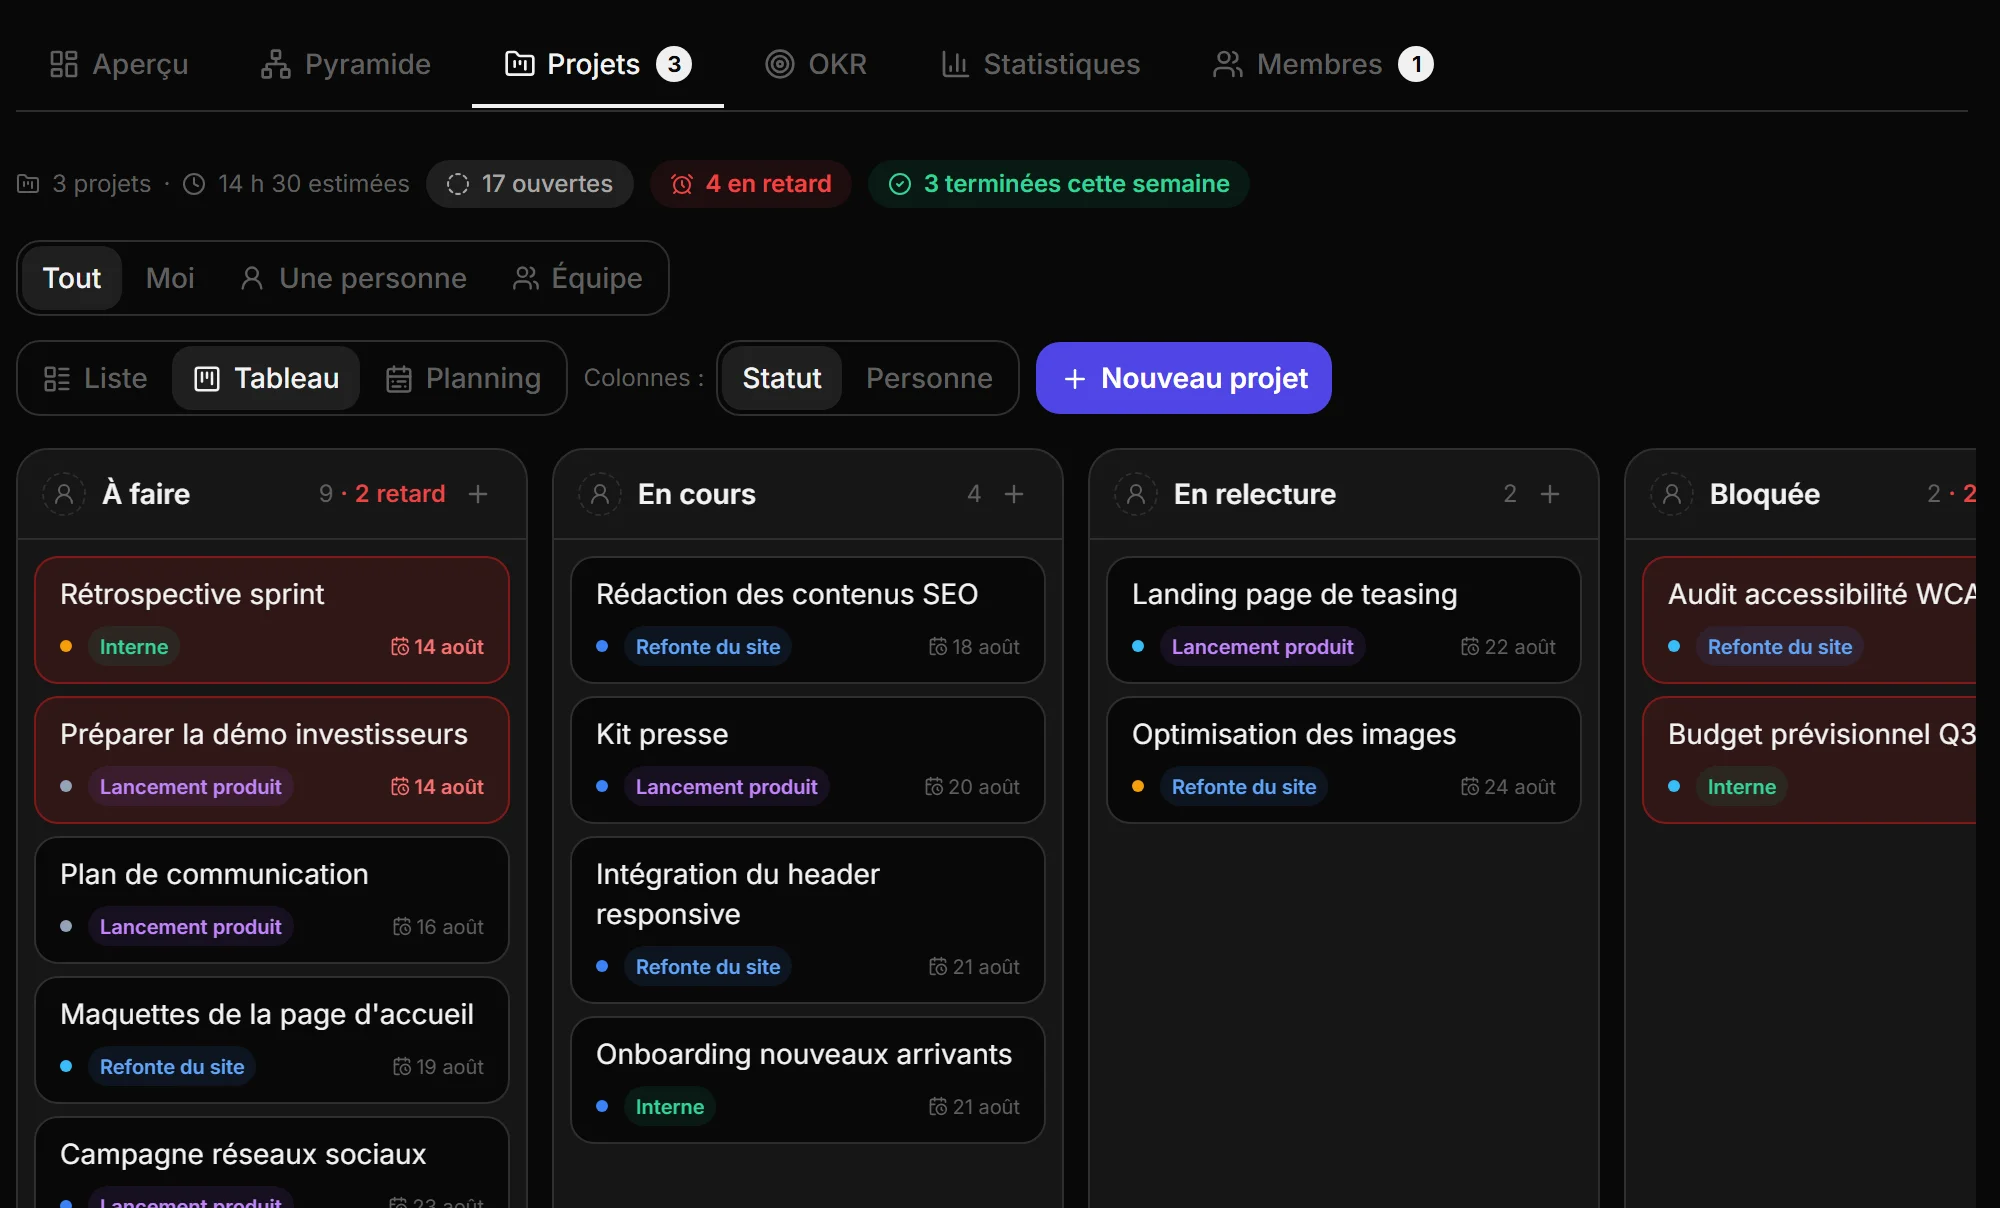
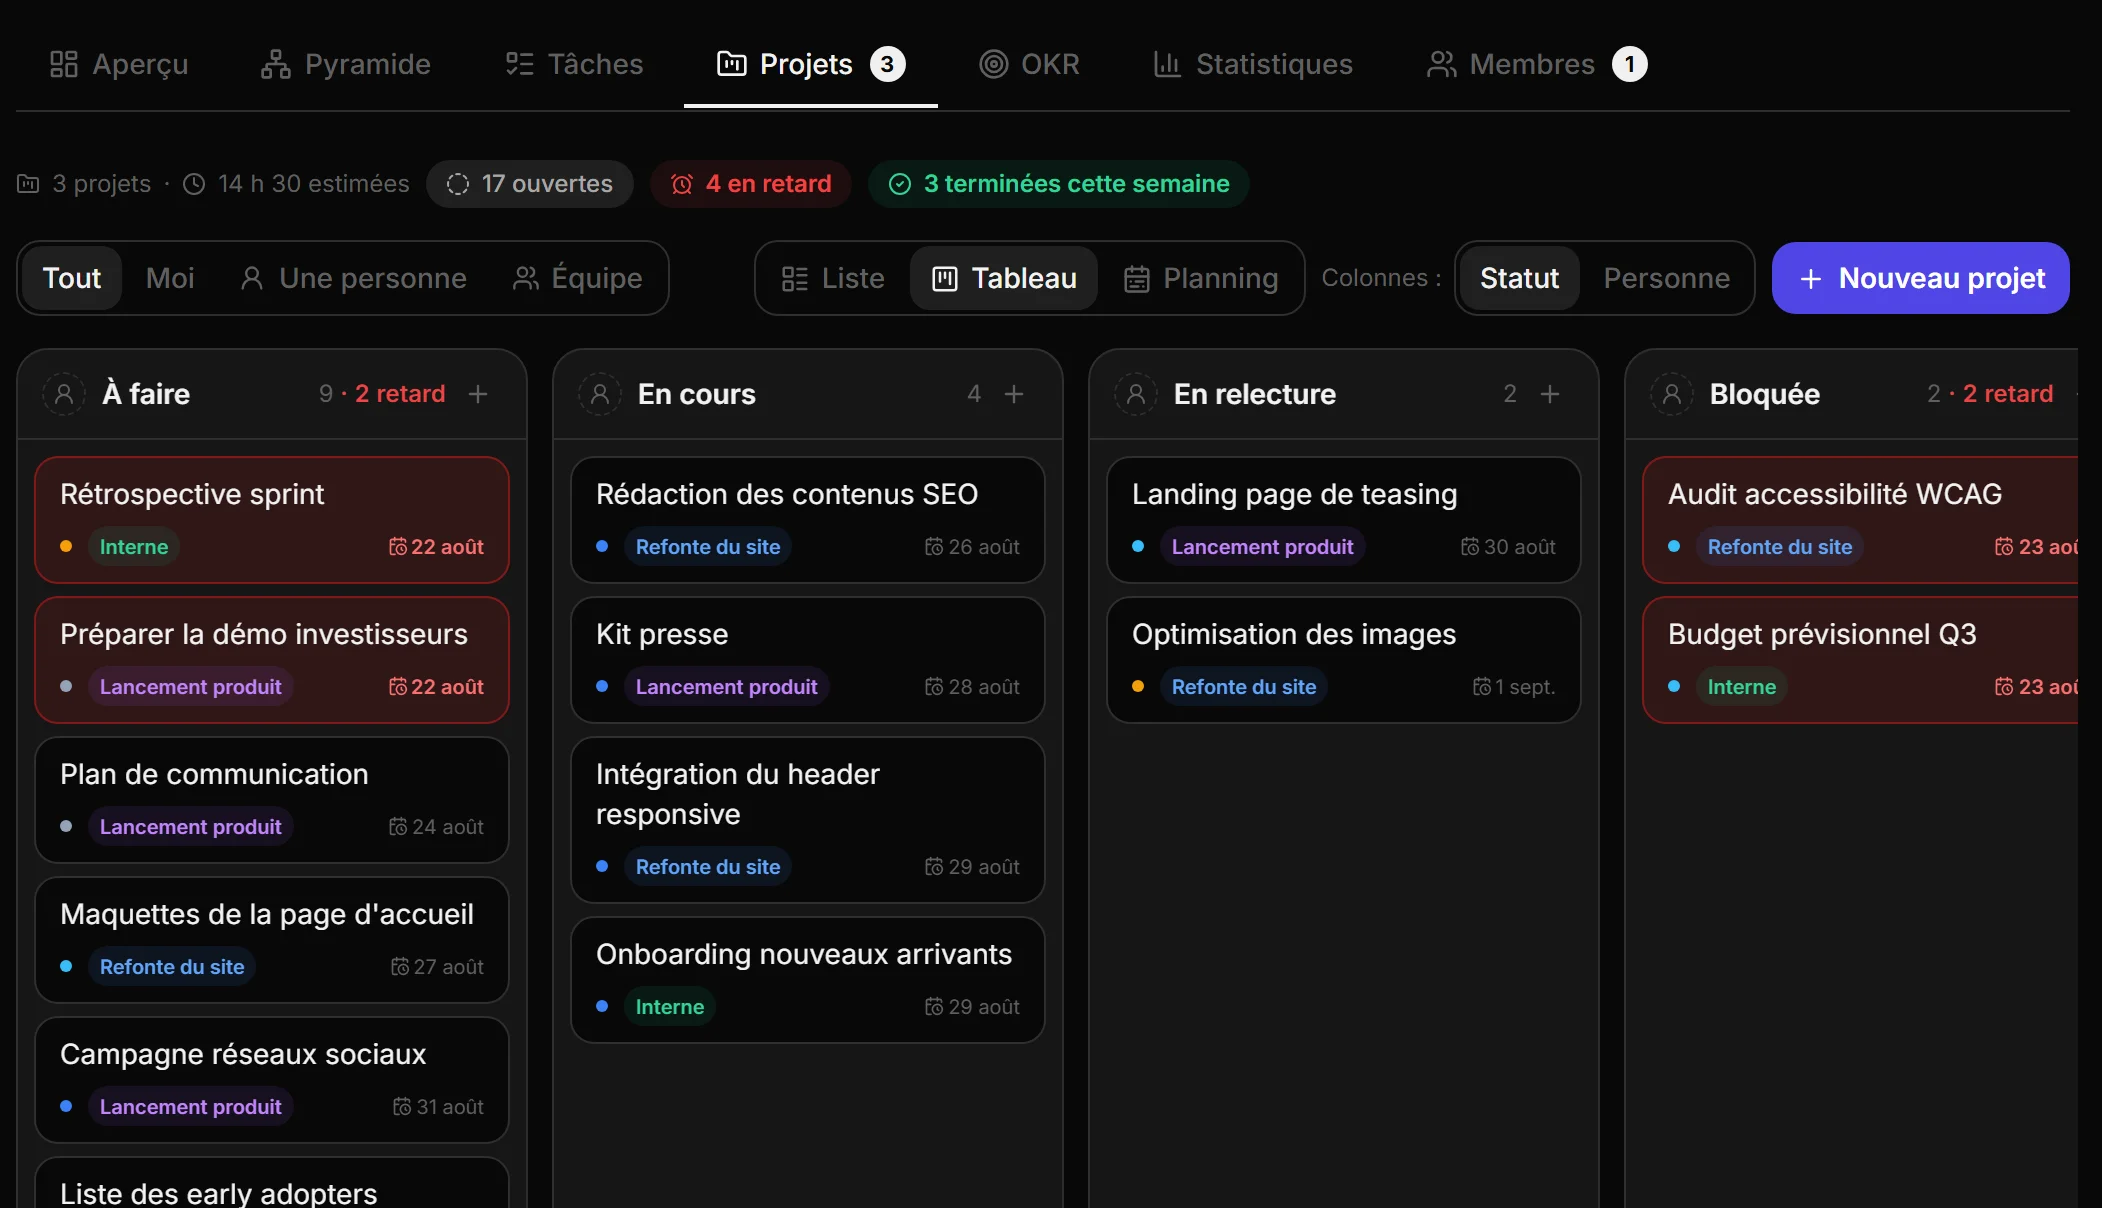
fix(entreprise): recapture les 8 screenshots de la landing + nouveau taches.webp
Les captures dataient d'avant le redesign du modal de tâche, les pastilles
de statut, le DatePicker refait et OrgPlanChip — elles montraient une
interface qui n'existe plus. Recapturées en démo/thème noir, à jour :
statuts 5 valeurs, chemin critique dans la vue Planning, panneau membres
avec équipes/responsables, OKR avec unité par KR.

- scripts/capture-entreprise-shots.mjs étendu : ne capturait que kanban et
  planning, capture maintenant les 9 vues (dont le nouvel onglet Tâches).
- data.ts : SHOTS.tasks enregistré (shot + alt), pas encore câblé dans une
  section (ExecutionSection garde son mockup inline).

fr + en, npm run i18n:check + typecheck verts. Vérifié en navigateur :
9 fichiers en 200, aucune erreur console, animations (hero crossfade, deck
épinglé Projets) intactes.

diff --git a/src/pages/landing/entreprise/data.ts b/src/pages/landing/entreprise/data.ts
@@ -171,6 +171,7 @@ export const SHOTS: Record<string, AppShotRef> = {
   projectsPlanning: { id: 'projectsPlanning', labelKey: 'enterprise.shot.projectsPlanning', image: shot('projets-planning'), altKey: 'enterprise.shot.projectsPlanningAlt' },
   okr: { id: 'okr', labelKey: 'enterprise.shot.okr', image: shot('okr'), altKey: 'enterprise.shot.okrAlt' },
   stats: { id: 'stats', labelKey: 'enterprise.shot.stats', image: shot('statistiques'), altKey: 'enterprise.shot.statsAlt' },
+  tasks: { id: 'tasks', labelKey: 'enterprise.shot.tasks', image: shot('taches'), altKey: 'enterprise.shot.tasksAlt' },
 };
 
 /** Les trois écrans qui défilent dans le hero. */
